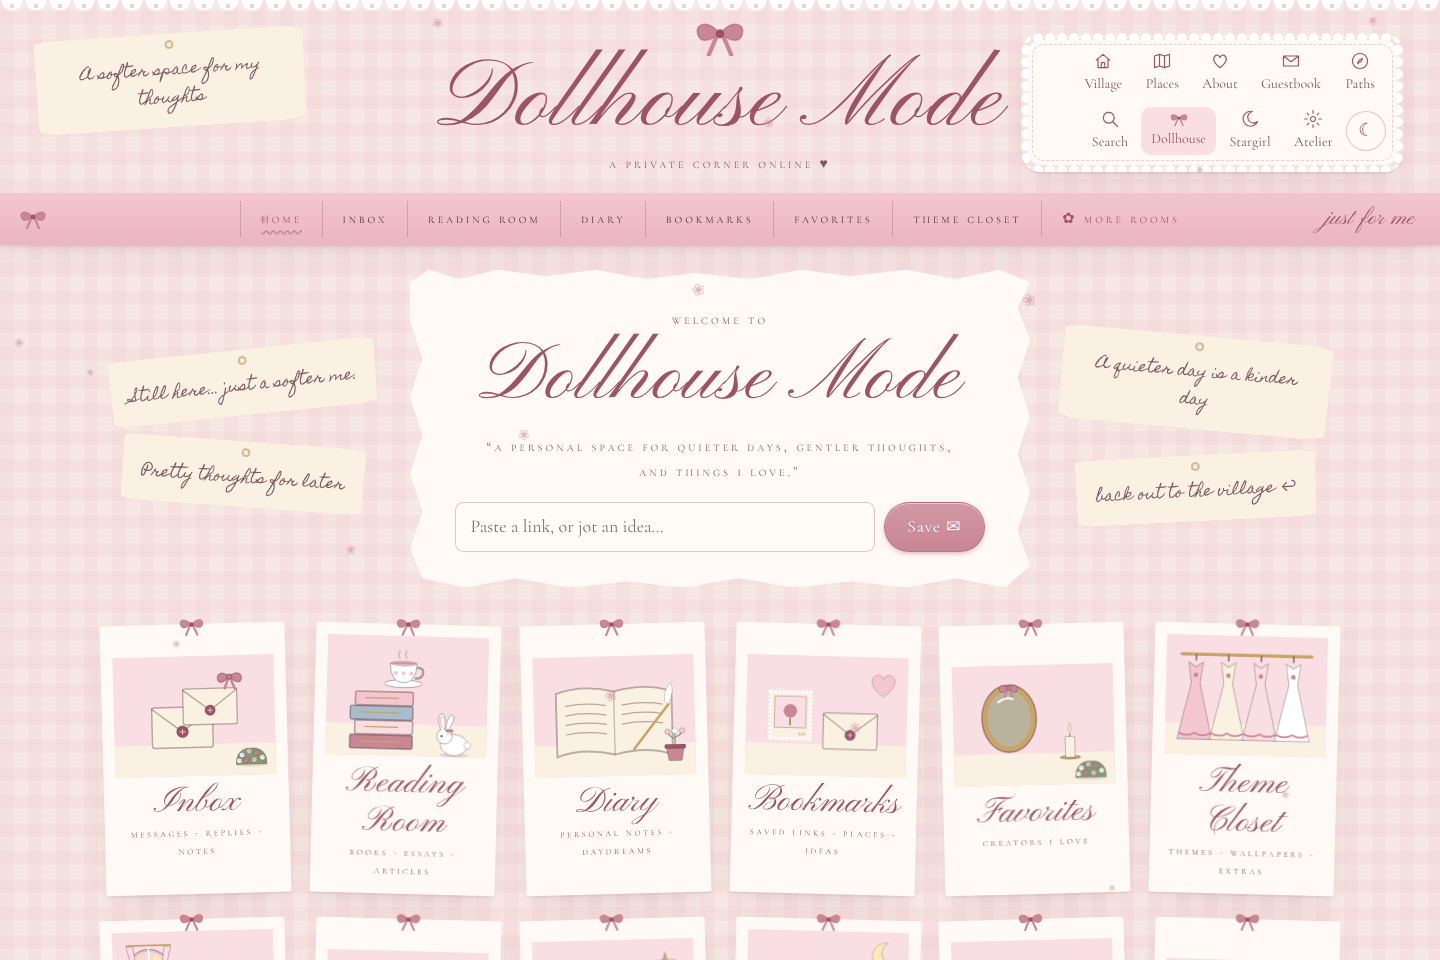
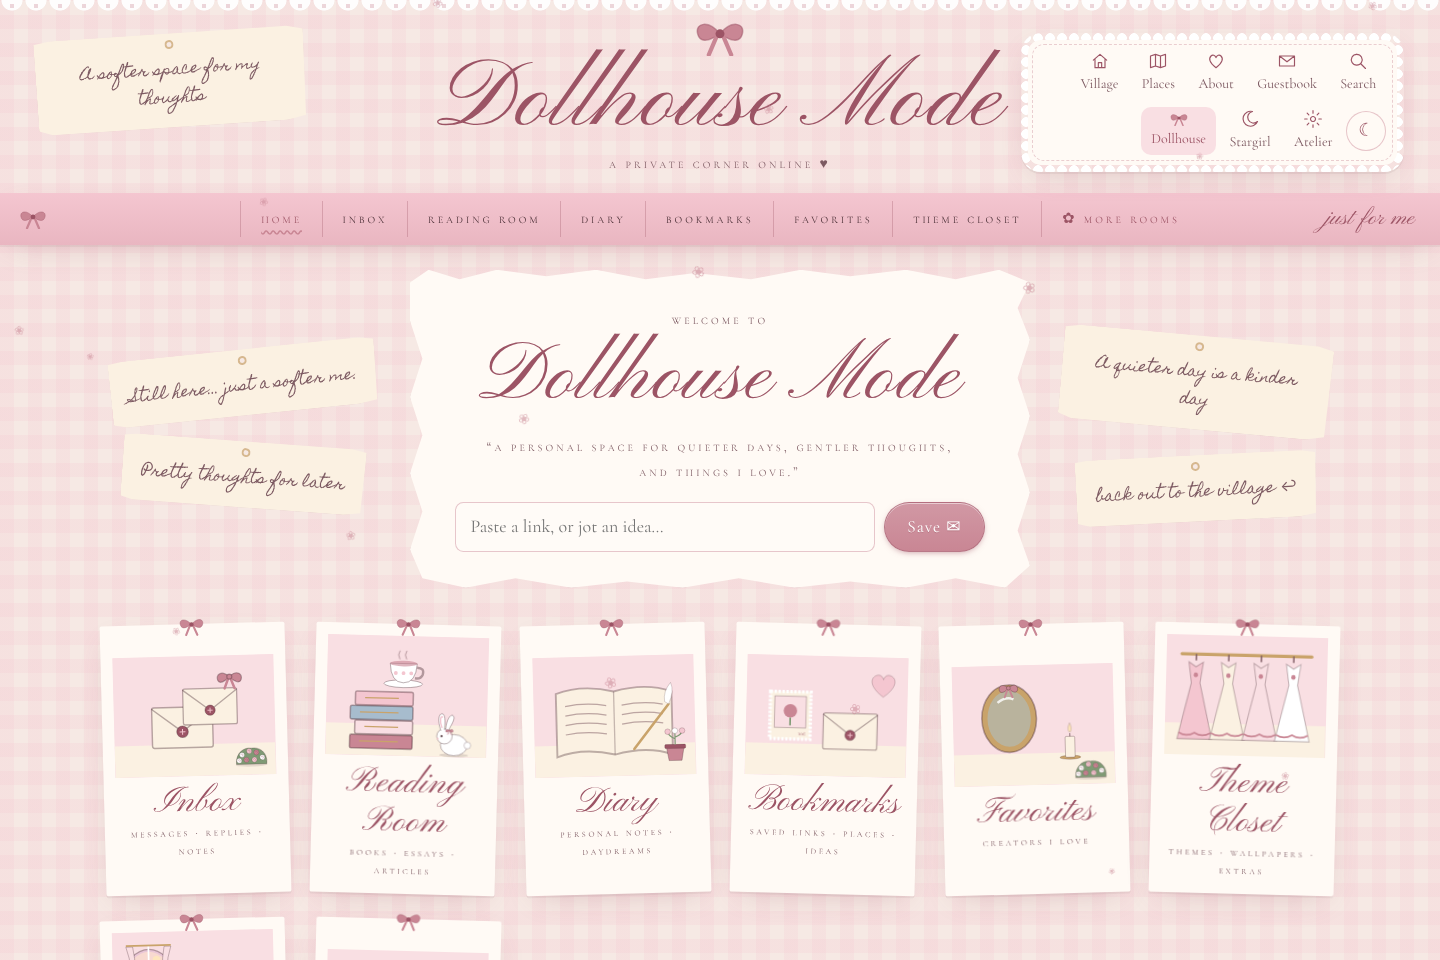
Phase 2 polish: soft mist, warmer night, steady daytime screenshots, coming-soon features out of menus; owner's guide and 2.0 status doc
- Features whose pages arrive in later phases are labelled 'coming soon' in the
  Feature Manager and kept out of menus and Dollhouse cards, so no link leads nowhere
- Owner's Guide: Feature Manager, appearance modes, companions, bedroom, weather/light
- docs/RIBBONMERE_2_STATUS.md: what is implemented, how it was tested, what remains

Claude-Session: https://claude.ai/code/session_01B2Kq4cj5kM4wUpEWZkT3RE

diff --git a/src/atelier/FeatureManager.tsx b/src/atelier/FeatureManager.tsx
@@ -1,7 +1,7 @@
 import { useState } from 'react';
 import { Link } from 'react-router-dom';
 import type { FeatureMode } from '../../shared/types';
-import { FEATURE_GROUPS, FEATURES, featureState, type FeatureDef } from '../../shared/features';
+import { FEATURE_GROUPS, FEATURES, NOT_YET_BUILT, featureState, type FeatureDef } from '../../shared/features';
 import { APPEARANCES } from '../../shared/appearance';
 import { useStore } from '../lib/store';
 import { setFeature } from '../lib/features';
@@ -84,7 +84,7 @@ export function FeatureManagerPage() {
                 const st = featureState(world, f.id);
                 return (
                   <article key={f.id} className={`fm-card mode-${st.mode}`} aria-label={f.name}>
-                    <header><strong>{f.name}</strong><span className={`fm-badge ${st.mode}`}>{MODES.find((m) => m.id === st.mode)!.label}</span></header>
+                    <header><strong>{f.name}</strong><span className={`fm-badge ${st.mode}`}>{MODES.find((m) => m.id === st.mode)!.label}</span>{NOT_YET_BUILT.has(f.id) && <span className="fm-soon">coming soon</span>}</header>
                     <p className="muted">{f.about}</p>
                     <div className="fm-modes" role="radiogroup" aria-label={`${f.name}: on, hidden or resting`}>
                       {MODES.map((m) => (
@@ -103,7 +103,7 @@ export function FeatureManagerPage() {
                       );
                     })()}
                     <div className="row wrap gap fm-links">
-                      {f.nav?.map((n) => <Link key={n.to} className="linkish" to={n.to}>open</Link>)}
+                      {!NOT_YET_BUILT.has(f.id) && f.nav?.map((n) => <Link key={n.to} className="linkish" to={n.to}>open</Link>)}
                       {f.reset && <button className="linkish danger-link" onClick={() => { setConfirming(f); setTyped(''); }}>reset…</button>}
                     </div>
                   </article>

diff --git a/src/world/Atmosphere.tsx b/src/world/Atmosphere.tsx
@@ -58,7 +58,7 @@ const TINT: Record<Daypart, { fill: string; opacity: number } | null> = {
   day: null,
   golden: { fill: '#f6b26b', opacity: 0.2 },
   dusk: { fill: '#8a5a8f', opacity: 0.26 },
-  night: { fill: '#1d1838', opacity: 0.42 },
+  night: { fill: '#3b2a62', opacity: 0.38 },
 };
 
 /** Glowing spots (lamps, building windows) stay bright when the light dims. */
@@ -89,7 +89,12 @@ export function WeatherOverlay({ weather, width, height }: { weather: Weather; w
           {Array.from({ length: 7 }, (_, i) => <path key={i} d={`M${width * 0.9} -40 L${width * (0.25 + i * 0.09)} ${height} L${width * (0.29 + i * 0.09)} ${height} Z`} fill="#fff4c9" opacity={0.08} />)}
         </g>
       )}
-      {weather === 'mist' && [0.35, 0.55, 0.75].map((f, i) => <rect key={i} className="mist-band" x={-200} y={height * f} width={width + 400} height={90} rx={45} fill="#fffaf6" opacity={0.32} style={{ animationDelay: `${-i * 9}s` }} />)}
+      {weather === 'mist' && (
+        <>
+          <defs><filter id="rm-mist" x="-20%" y="-200%" width="140%" height="500%"><feGaussianBlur stdDeviation="28" /></filter></defs>
+          {[0.38, 0.6, 0.8].map((f, i) => <ellipse key={i} className="mist-band" cx={width / 2} cy={height * f} rx={width * 0.62} ry={46} fill="#fffaf6" opacity={0.42} filter="url(#rm-mist)" style={{ animationDelay: `${-i * 9}s` }} />)}
+        </>
+      )}
       {weather === 'rain' && (
         <>
           <rect width={width} height={height} fill="#7d8fa8" opacity={0.08} />

diff --git a/scripts/e2e-v2-sections.ts b/scripts/e2e-v2-sections.ts
@@ -240,6 +240,19 @@ export function sections(t: T): Record<string, () => Promise<void>> {
       await lamp.click();
       assert.equal(await v.locator('.obj.lamp-off').count(), 0, 'lamp back on');
       step('tapping the fountain splashes; lamps switch off and on');
+      await o.goto(`${BASE}/atelier/features`);
+      await o.getByRole('article', { name: 'Weather' }).getByRole('combobox').selectOption('mist');
+      await o.getByRole('article', { name: 'Day & night' }).getByRole('combobox').selectOption('clock');
+      await o.waitForTimeout(500);
+      await publish();
+      await v.goto(BASE); await enter(v);
+      await v.locator('.world-page[data-weather="mist"][data-daypart="day"]').waitFor();
+      await shot(v, 'world-mist-day');
+      await o.goto(`${BASE}/atelier/features`);
+      await o.getByRole('article', { name: 'Day & night' }).getByRole('combobox').selectOption('golden');
+      await o.waitForTimeout(500);
+      await publish();
+      await v.goto(BASE); await enter(v);
       await setAppearance(v, 'Quiet');
       assert.equal(await v.locator('.world-page[data-weather]').count(), 0, 'Quiet: no weather');
       assert.equal(await v.locator('.obj.playful').count(), 0, 'Quiet: no playful objects');

diff --git a/src/lib/features.tsx b/src/lib/features.tsx
@@ -1,7 +1,7 @@
 import type { ReactNode } from 'react';
 import { Link, useLocation } from 'react-router-dom';
 import type { FeatureMode, WorldConfig } from '../../shared/types';
-import { FEATURE_BY_ID, FEATURES, featureForPath, featureForTemplate, featureMode, featureState } from '../../shared/features';
+import { FEATURE_BY_ID, FEATURES, NOT_YET_BUILT, featureForPath, featureForTemplate, featureMode, featureState } from '../../shared/features';
 import { useStore } from './store';
 
 // Reading and changing feature modes from anywhere in the app.
@@ -38,7 +38,7 @@ export function roomFeatureMode(world: WorldConfig, template: string): FeatureMo
 /** Menu entries contributed by features that are on. */
 export function useFeatureNav(area: 'dollhouse' | 'stargirl' | 'village' | 'atelier') {
   const { world, appearance } = useStore();
-  return FEATURES.filter((f) => featureMode(world, f.id) === 'on' && !(appearance === 'quiet' && f.quietHides))
+  return FEATURES.filter((f) => featureMode(world, f.id) === 'on' && !NOT_YET_BUILT.has(f.id) && !(appearance === 'quiet' && f.quietHides))
     .flatMap((f) => (f.nav ?? []).filter((n) => n.area === area));
 }
 

diff --git a/scripts/screenshots.ts b/scripts/screenshots.ts
@@ -35,9 +35,13 @@ const watch = (p: Page) => {
 const shot = async (p: Page, name: string) => { if (!only.length || only.includes(name)) await p.screenshot({ path: path.join(OUT, `${name}.png`) }); };
 const step = (s: string) => console.log(`  ✓ ${s}`);
 
+// Visitor screenshots are taken at late morning, so the village's day & night light is the same on every run.
+const daytime = async (c: import('playwright').BrowserContext) => { const d = new Date(); d.setHours(11, 0, 0, 0); await c.clock.setFixedTime(d); };
+
 try {
   // ── visitor ──
   const visitor = await browser.newContext({ viewport: { width: 1440, height: 960 } });
+  await daytime(visitor);
   const v = await visitor.newPage(); watch(v);
   await v.goto(BASE);
   await v.getByRole('button', { name: /untie the ribbon/i }).waitFor();
@@ -226,6 +230,7 @@ try {
 
   // Mobile
   const phone = await browser.newContext({ viewport: { width: 390, height: 844 }, isMobile: true, hasTouch: true, deviceScaleFactor: 2 });
+  await daytime(phone);
   const m = await phone.newPage(); watch(m);
   await m.goto(BASE);
   await m.getByRole('button', { name: /untie the ribbon/i }).click();

diff --git a/src/private/Dollhouse.tsx b/src/private/Dollhouse.tsx
@@ -6,7 +6,7 @@ import { api, items as itemsApi } from '../lib/api';
 import { hostOf, timeAgo, uid } from '../lib/util';
 import { Polaroid, Tag, useAsync } from '../ui/kit';
 import { useItems } from '../rooms/common';
-import { FEATURE_BY_ID, featureMode } from '../../shared/features';
+import { FEATURE_BY_ID, NOT_YET_BUILT, featureMode } from '../../shared/features';
 import { ModeShell } from './Shell';
 import { Vignette } from './Vignette';
 import { QuickAdd } from './Letterbox';
@@ -68,7 +68,7 @@ export function DollhousePage() {
     setWidgets(list);
   };
   const patch = (id: string, p: Partial<DashboardWidget>) => setWidgets(widgets.map((w) => (w.id === id ? { ...w, ...p } : w)));
-  const cards = DOLLHOUSE_CARDS.filter((c) => !c.feature || featureMode(world, c.feature) === 'on')
+  const cards = DOLLHOUSE_CARDS.filter((c) => !c.feature || (featureMode(world, c.feature) === 'on' && !NOT_YET_BUILT.has(c.feature)))
     .filter((c) => !(appearance === 'quiet' && c.feature && FEATURE_BY_ID.get(c.feature)?.quietHides));
   return (
     <ModeShell mode="private">

diff --git a/shared/features.ts b/shared/features.ts
@@ -28,6 +28,10 @@ export interface FeatureReset {
   what: string;
 }
 
+/** Registered features whose pages arrive in a later phase. Their menu links and cards stay out of
+ *  sight until they're built, so nothing in the working app leads nowhere. Shrinks every phase. */
+export const NOT_YET_BUILT = new Set(['regions', 'newspaper', 'parlour', 'readingJournal', 'commonplace', 'cinema', 'recordstore', 'bookstore', 'rabbitmap', 'museum', 'scrapbook', 'letters', 'capsules', 'pearls', 'minigames']);
+
 export interface FeatureDef {
   id: string;
   name: string;

diff --git a/src/styles.css b/src/styles.css
@@ -838,3 +838,4 @@ kbd { font-family: var(--font-pixel); font-size: .8em; padding: 0 .35em; border:
 .world-page[data-daypart='night'] .map-frame, .world-page[data-daypart='dusk'] .map-frame { box-shadow: inset 0 0 60px rgba(20, 16, 50, .25); }
 .fm-option { display: flex; align-items: center; gap: 8px; margin: 6px 0; }
 .fm-option .input { max-width: 200px; }
+.fm-soon { margin-left: 6px; font-size: .75em; letter-spacing: .08em; text-transform: uppercase; color: var(--c-inkSoft); border: 1px dashed var(--c-pink); border-radius: 999px; padding: 1px 8px; }

diff --git a/scripts/e2e-v2.ts b/scripts/e2e-v2.ts
@@ -53,6 +53,7 @@ try {
   await o.waitForURL(/dollhouse/);
   step('owner signed in');
   const visitorCtx = await browser.newContext({ viewport: { width: 1440, height: 960 } });
+  { const d = new Date(); d.setHours(11, 0, 0, 0); await visitorCtx.clock.setFixedTime(d); } // steady daylight for screenshots
   const v = await visitorCtx.newPage(); watch(v, 'visitor');
 
   const sections: Record<string, () => Promise<void>> = (await import('./e2e-v2-sections')).sections({ o, v, BASE, browser, shot, enter, api, step, ownerCtx, visitorCtx });

diff --git a/docs/OWNERS_GUIDE.md b/docs/OWNERS_GUIDE.md
@@ -22,6 +22,11 @@ This guide is for you, the person who lives here. It doesn't assume you know how
 11. [Publish changes](#11-publish-changes)
 12. [Use it from your phone](#12-use-it-from-your-phone)
 13. [Private vs. public: how it works](#13-private-vs-public)
+14. [Ribbonmere 2.0: switching things on and off](#14-the-feature-manager)
+15. [How things look: appearance modes](#15-appearance-modes)
+16. [Companions](#16-companions)
+17. [My Bedroom](#17-my-bedroom)
+18. [Weather, light and little interactions](#18-weather-light-and-little-interactions)
 
 ---
 
@@ -216,6 +221,68 @@ On a phone, the map can be zoomed with **＋ / －** and scrolled with your fing
 This is enforced by the **server**, not by hiding things in the page. Private things are never sent to a visitor's browser at all. That holds even inside a public item: a public book's *private notes* are removed before it's sent. A whole private room hides everything inside it.
 
 Uploaded images are the one exception. To show on public pages, image files are served to anyone who has their (long, random, unguessable) address. Don't upload something you'd never want shared.
+
+
+## 14. The Feature Manager
+
+Everything new in Ribbonmere 2.0 is optional. Open **Atelier → Features**. Each feature has a card with three choices:
+
+| Choice | What happens | Your things |
+|---|---|---|
+| **On** | It's in the menus and on the map. | Kept |
+| **Hidden** | It still works if you go to its address, but it's out of the menus, the Dollhouse cards and the map. | Kept |
+| **Resting** | It's switched off. Its page shows a short note saying it's resting, and visitors don't see it at all. | Kept, untouched |
+
+- **Reset…** is separate and always asks first. You have to type `RESET`. It clears *only that feature's own things*, and the card says exactly what that means. For example, resetting Companions removes your pets and their map spots, while your books, letterbox, rooms and theme stay as they are. Download a backup first if you're unsure (Atelier → Backups).
+- **Restore every feature** puts everything back to *On*. It never resets or deletes anything.
+- **Visitors see your choices once you publish the village.** Use the *Publish changes for visitors* button at the top of the Feature Manager.
+- **Backups:** feature choices live in your village settings, so every backup and checkpoint includes them.
+
+## 15. Appearance modes
+
+The ☾ menu has four looks. They change how the site looks, never what's in it:
+
+- **Coquette:** the full storybook look.
+- **Quiet:** calm and readable. It has no animation, larger text, and no decorations, stamps, weather, companions or games. Every room and every piece of content is still there. Press **Alt + Q** anywhere to switch Quiet on or off.
+- **Pixie:** pixel-art edges, a pixel font and little sprites.
+- **Midnight:** deep plum, dusty rose and candlelight.
+
+Each person's choice is remembered on their own device. To choose which look visitors get first, go to *Atelier → Features → appearance visitors see first*.
+
+## 16. Companions
+
+*Dollhouse → ✿ more rooms → Pets* (or the **Companions** card).
+
+- **Adopt:** pick a white bunny, baby fawn, kitten or little swan, give them a name, and press *Bring them home*. You can have as many as you like.
+- **Dress up:** open *Accessories & colours* to change fur and collar colours, choose a bow, or add a pearl necklace, a flower crown or a lace bonnet. You can also choose their home: a cushion, hutch, basket or lily pond. Tap a companion to give them a pat.
+- **Follows me around:** one companion at a time walks along the bottom of your screen after your cursor. Only you see this. It's off in Quiet mode, and it stands still if you've turned animations off.
+- **Wanders the village map:** puts that companion on the public map. Visitors see it after you publish. The pet's record stays private; visitors only see the little picture and its name.
+- **Tucked away for now:** keeps them safe but out of sight.
+- **Rehome…:** says goodbye for good, after asking you first.
+- Companions never get hungry, sad or lost, and nothing happens if you don't visit.
+- **Hide / rest / reset:** use the *Pet companions* card in the Feature Manager. Resting takes them off the map and stops the follower, and they all come back exactly as they were. Reset removes the pets and their map spots only.
+
+## 17. My Bedroom
+
+*Dollhouse → ✿ more rooms → Bedroom* (or the **My Bedroom** card).
+
+1. Press **Make my bedroom**. You get a canopy bed, vanity, lamp, window, shelf, rug and a little bunny.
+2. Choose a **wallpaper** (candy stripes, climbing roses, gingham, pearl dots, starry night or plain), a **floor**, and optionally your own wall colour.
+3. Press **Arrange furniture & photos** to open the room editor. Drag pieces around, resize them and recolour them. The *Furniture* shelf has beds, wardrobes, vanities, dressers, lamps, a swan lamp, a music box, cushions, mirrors and pet homes.
+4. **Your photos:** drag an image from your media library into the room. Select it and choose a **Frame**: gilded, lace, polaroid or oval cameo. Frames work in any freeform room, not just the bedroom.
+
+The bedroom is **private**. Visitors can't open it, and it isn't sent to their browser. If you'd like to share it, change its visibility in *Atelier → Rooms*.
+**Reset** (in the Feature Manager) puts back the starting furniture and wallpaper. Your uploaded images stay in the media library.
+
+## 18. Weather, light and little interactions
+
+These live in *Atelier → Features → World & Atmosphere*:
+
+- **Weather:** by default it follows the season and stays the same all day. Winter brings snow, spring brings petals and rain, summer is sunny, and autumn is misty. You can pick one instead on the card.
+- **Day & night:** by default the village light follows each visitor's clock: golden mornings, dusky evenings, and night with stars and glowing windows. Or set it to always daytime, always golden hour, or always night.
+- **Little interactions:** tap the fountain for a splash, trees and rose bushes for falling petals, and lamp posts to switch them off and on. Tap a bunny, deer or swan for a hop and a heart.
+
+All three are switched off in Quiet mode. Resting them turns them off for everyone after you publish. Buildings and rooms always keep working. Visitors only ever receive the weather and light choice, never any other setting.
 
 ---
 

diff --git a/docs/RIBBONMERE_2_STATUS.md b/docs/RIBBONMERE_2_STATUS.md
@@ -1,0 +1,69 @@
+# Ribbonmere 2.0: build status
+
+This is an honest record of what's built, what's been tested, and what's still to come. It's updated at the end of every work session.
+
+Work happens on branch `claude/ribbonmere-2`. Your live site keeps running from `claude/cloudflare-firebase-migration` until you choose to switch.
+
+## Done and tested
+
+### Phase 1: foundations
+- **Feature Manager** (*Atelier → Features*): every optional feature can be On, Hidden or Resting, or Reset after typing `RESET`. A reset clears only that feature's own data. There is also a "Restore every feature" button.
+- **Appearance modes:** Coquette, Quiet, Pixie and Midnight. Each device remembers its own choice, the owner chooses the default visitors see, and Alt + Q toggles Quiet.
+- **Progress engine** for the optional achievements and pearls. It never decays.
+
+### Phase 2: living world
+- **Companions:**
+  - Adopt a bunny, fawn, kitten or swan, and name them.
+  - Accessories: fur, collar, bow, pearls, crown, bonnet. Each companion has a home and can be patted for hearts.
+  - One follower that drifts after your cursor.
+  - Optional wandering on the public map; the pet records themselves stay private.
+  - Tuck away, or rehome with confirmation.
+- **My Bedroom:**
+  - A private room with wallpapers, floors, wall colour and default furniture.
+  - Arranged in the existing room editor.
+- **Framed photos** in any freeform room: gilded, lace, polaroid or oval.
+- **New artwork:** four companions with idle animations, four pet homes, and twelve furniture and trinket pieces. All appear in the editor's artwork library.
+- **Atmosphere:**
+  - Weather, either season-following or chosen: clear, sunshine, rain, snow, mist, petals.
+  - Day & night light that follows the clock, with lamp and window glow at dusk and night.
+  - Little interactions: fountain splash, falling petals, lamp switches, creature hops.
+- **Security:**
+  - The Firestore rules accept every 2.0 kind, and the always-private kinds (capsules, editions, challenges, progress) can't be made public. A test keeps the rules in step with the code.
+  - Restoring a backup keeps always-private kinds private on both backends.
+
+**How it was tested:**
+
+| Command | Result |
+|---|---|
+| `npm run test:v2` | 19 browser checks, all passing, no browser errors |
+| `npm test` | 12 server tests |
+| `npm run test:rules` | 7 rule groups, including the new kinds test |
+| `npm run test:functions` | 6 |
+| `npm run screenshots` | 17 original browser checks |
+| `npm run test:cloud` | 24 cloud checks on the emulators |
+
+The `test:v2` run covers these lifecycles:
+- **Letterbox:** hide → rest → on, data kept.
+- **Stamps:** rest → on, as seen by visitors.
+- **Appearance:** all four modes, Quiet keeps every place, Alt+Q.
+- **Companions:** adopt → dress → follow → wander map → hide → rest → on, with data kept, then reset. The reset removes only pets and their map spots, and the letterbox is untouched.
+- **Bedroom:** create → decorate → private to visitors → hide → rest → on, with decoration kept, then reset. The reset touches only the bedroom.
+- **World:** weather and light reach visitors after publish, interactions work, Quiet and resting turn them off without touching buildings, and resetting weather leaves the light setting alone.
+
+Screenshots are in `docs/screenshots/v2/`.
+
+## Not built yet (coming in later phases)
+
+| Phase | Features |
+|---|---|
+| 3 | Morning Newspaper, Video Parlour, Reading Journal (stats, wrap-ups, gentle challenges), Commonplace Book |
+| 4 | Memory Museum, Scrapbook studio, Vintage Cinema, Record Store, Bookstore, Letter-Writing Station |
+| 5 | Time Capsules, the Rabbit Hole discovery map, seven new landscape regions with the Paths page |
+| 6 | Charms page (achievements, pearls, keepsake charms), five minigames |
+| 7 | Final appearance polish, and full lifecycle tests for every feature on the cloud backend |
+
+These features already appear in the Feature Manager with a **coming soon** label, so you can set them up ahead of time. Their menu links and Dollhouse cards stay hidden until they're built, so nothing in the site leads to a missing page.
+
+## Known limitations
+- The follower companion is owner-only by design. Visitors only see companions you put on the map.
+- The day & night light uses each visitor's own clock, so different visitors may see different times of day. Choose "Always daytime" in the Feature Manager if you prefer one look.
